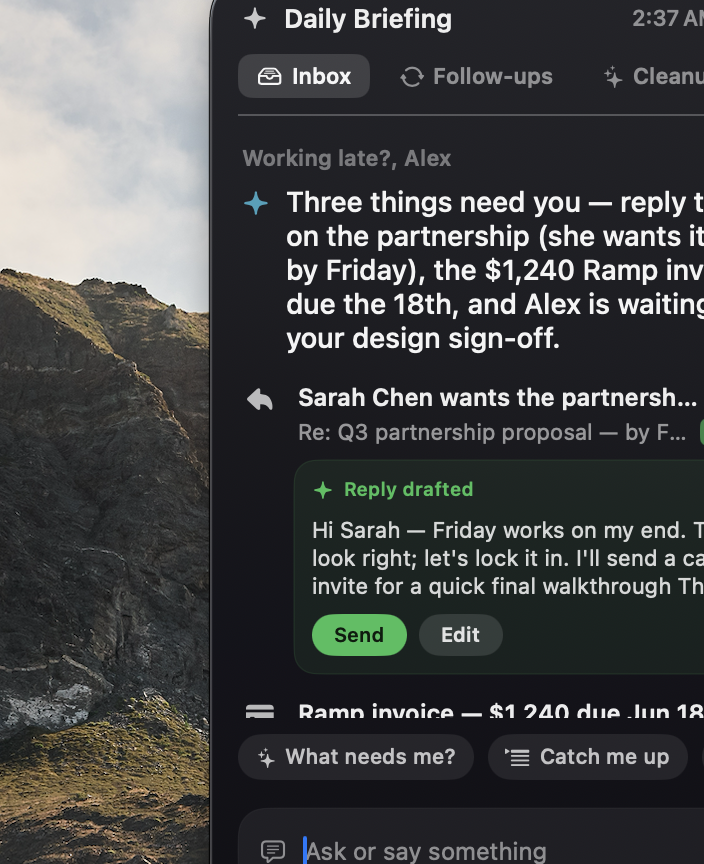
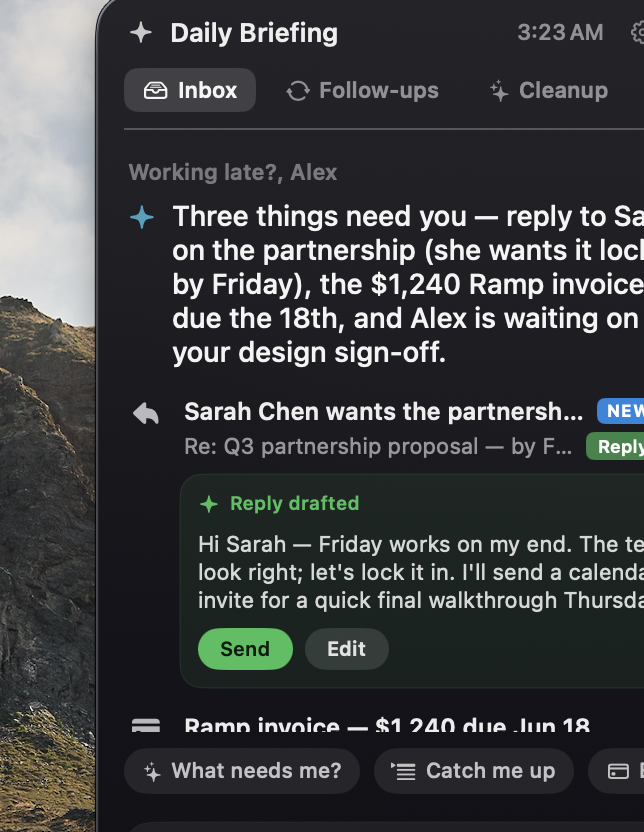
Polish README: tighter screenshots, fix flight GIF, add account connectivity, cleaner punctuation

diff --git a/README.md b/README.md
@@ -4,7 +4,7 @@
 
 # Crux
 
-### Your inbox, distilled to what actually matters — privately, on your Mac.
+### Your inbox, distilled to what actually matters - privately, on your Mac.
 
 Crux is a free, open-source menu-bar assistant that reads your mail **100% on-device**, tells you the few things that genuinely need you, drafts your replies, and quiets the rest. No account. No cloud. No telemetry. Your email never leaves your Mac.
 
@@ -14,7 +14,7 @@ Crux is a free, open-source menu-bar assistant that reads your mail **100% on-de
 ![Network](https://img.shields.io/badge/telemetry-none-22c1c3)
 ![Built with](https://img.shields.io/badge/Swift-SwiftUI%20%2B%20Foundation%20Models-orange)
 
-<img src="docs/screenshots/hero.png" width="640" alt="Crux briefing" />
+<img src="docs/screenshots/hero.png" width="380" alt="Crux briefing" />
 
 </div>
 
@@ -22,7 +22,7 @@ Crux is a free, open-source menu-bar assistant that reads your mail **100% on-de
 
 ## Why Crux
 
-Your inbox is 95% noise — newsletters, job alerts, receipts, "someone mentioned you" — and 5% that actually needs you. Every other email tool fixes this by **uploading your mail to their servers** and running it through their AI.
+Your inbox is 95% noise - newsletters, job alerts, receipts, "someone mentioned you" - and 5% that actually needs you. Every other email tool fixes this by **uploading your mail to their servers** and running it through their AI.
 
 Crux does the opposite. It runs Apple's on-device foundation model **right on your Mac**. The same intelligence, but your mail is never sent anywhere, never stored on a server, never used to train anything. It's the privacy you'd want from something reading your email.
 
@@ -30,76 +30,93 @@ Crux does the opposite. It runs Apple's on-device foundation model **right on yo
 
 ---
 
+## Works with your accounts
+
+Crux needs **no passwords and no API keys**. It reads whatever you've already added to **Apple Mail**, so it works with every major provider:
+
+> **Gmail (Google), iCloud, Outlook / Microsoft 365, Yahoo, and any IMAP account.**
+
+The trick: your provider syncs into Apple Mail, and Crux reads that **local, on-device copy**. It never logs into Google or Microsoft, and your password stays with Apple.
+
+It also reads, on-device:
+
+- **Apple Calendar** (including a **Google Calendar** synced into it) to show what's next and link meetings to the related mail.
+- **Apple Reminders** (including **Google Tasks** synced in) to show what's on your plate.
+
+Adding a new account is just adding it to Apple Mail. Everything stays on your Mac.
+
+---
+
 ## What it does
 
 | | Feature | What you get |
 |---|---|---|
-| 📩 | **Daily briefing** | The handful of emails that genuinely need you — surfaced from the noise by a deterministic importance engine (Apple's own urgent/high-impact ML verdicts + unread/flagged − newsletter/bot penalties). |
+| 📩 | **Daily briefing** | The handful of emails that genuinely need you - surfaced from the noise by a deterministic importance engine (Apple's own urgent/high-impact ML verdicts + unread/flagged - newsletter/bot penalties). |
 | ✍️ | **Smart Reply** | Crux pre-drafts a reply for the top message that needs one, in *your* voice. You just Send or Edit. Never drafts to no-reply/bot senders. |
 | 🔁 | **Follow-up Radar** | Threads where *you're* waiting on a reply, so nothing slips. |
-| 📚 | **Catch me up** | A grouped digest of everything recent (jobs, social, newsletters) — readable instead of a flat list. |
+| 📚 | **Catch me up** | A grouped digest of everything recent (jobs, social, newsletters) - readable instead of a flat list. |
 | 🧹 | **Declutter & Unsubscribe** | Finds the senders flooding your inbox and one-taps the real `List-Unsubscribe`. |
-| 💸 | **Money Radar** | Detects subscriptions & free-trials-about-to-charge from renewal emails — **no bank login, ever**. Free and complete. |
-| ✨ | **Discover ("Worth a look")** | Pulls the genuinely interesting items out of the newsletters *you already get*, matched to your field — so you don't miss the good stuff. |
-| 🎙️ | **Ask Crux** | A chat box (type or speak) to ask anything about your inbox — answered on-device, in plain language. |
+| 💸 | **Money Radar** | Detects subscriptions & free-trials-about-to-charge from renewal emails - **no bank login, ever**. Free and complete. |
+| ✨ | **Discover ("Worth a look")** | Pulls the genuinely interesting items out of the newsletters *you already get*, matched to your field - so you don't miss the good stuff. |
+| 🎙️ | **Ask Crux** | A chat box (type or speak) to ask anything about your inbox - answered on-device, in plain language. |
 | 🛎️ | **Live notification card** | A clean Dynamic-Island-style card drops in for important new mail, then a dot glides up to the menu bar. (Toggle the animation off if you prefer.) |
-| 🧠 | **Learns you** | Builds a private, on-device model of what you care about from what you open and star — and from the interests you set. |
+| 🧠 | **Learns you** | Builds a private, on-device model of what you care about from what you open and star - and from the interests you set. |
 | 📅 | **Calendar + Reminders aware** | Shows what's next and what's on your plate, alongside your mail. |
 
 ### See it
 
 <div align="center">
 
-**The fly-to-Crux handoff** — when important mail arrives, a card drops under the notch and a dot glides up to the menu bar:
+**The fly-to-Crux handoff** - when important mail arrives, a card drops under the notch and a dot glides up to the menu bar:
 
-<img src="docs/screenshots/flight.gif" width="540" alt="Crux notification animation" />
+<img src="docs/screenshots/flight.gif" width="460" alt="Crux notification animation" />
 
 </div>
 
 | Money Radar | Ask Crux |
 |:-:|:-:|
-| <img src="docs/screenshots/money.png" width="320" alt="Money Radar — subscriptions & trial alerts" /> | <img src="docs/screenshots/chat.png" width="320" alt="Ask Crux — chat with your inbox" /> |
-| Every subscription + trials about to charge — **no bank login** | Chat with your inbox by **text or voice**, answered on-device |
+| <img src="docs/screenshots/money.png" width="320" alt="Money Radar - subscriptions & trial alerts" /> | <img src="docs/screenshots/chat.png" width="320" alt="Ask Crux - chat with your inbox" /> |
+| Every subscription + trials about to charge - **no bank login** | Chat with your inbox by **text or voice**, answered on-device |
 
 ---
 
-## 🔒 Privacy — the whole point
+## 🔒 Privacy - the whole point
 
 - **On-device AI.** Summaries, drafts, and answers run on Apple's Foundation Models, locally. Your mail is never uploaded.
 - **Zero accounts, zero telemetry.** Crux has no backend. It can't see your data because there's nowhere for it to go.
-- **The *only* network connection** Crux can make is an **optional, once-a-day, anonymous** check to GitHub to see if a new version exists — it sends nothing about you, and you can turn it off in Settings.
+- **The *only* network connection** Crux can make is an **optional, once-a-day, anonymous** check to GitHub to see if a new version exists - it sends nothing about you, and you can turn it off in Settings.
 - **Open source (MIT).** Read every line. Build it yourself.
 
 ---
 
 ## Requirements
 
-- **Apple Silicon Mac (M1 or newer)** — required for the on-device AI.
+- **Apple Silicon Mac (M1 or newer)** - required for the on-device AI.
 - **macOS 26 (Tahoe) or later.**
 - **Apple Intelligence enabled** (System Settings → Apple Intelligence & Siri).
-- Your mail added to **Apple Mail** (see [Setup](#setup) — this is how Crux reads Gmail/iCloud/Outlook without ever logging in).
+- Your mail added to **Apple Mail** (see [Setup](#setup) - this is how Crux reads Gmail/iCloud/Outlook without ever logging in).
 
-> Crux still shows your inbox, Money Radar, and Discover on machines without Apple Intelligence — it just skips the AI phrasing.
+> Crux still shows your inbox, Money Radar, and Discover on machines without Apple Intelligence - it just skips the AI phrasing.
 
 ---
 
 ## Install
 
-### Option A — Download (easiest)
+### Option A - Download (easiest)
 
 1. Download **`Crux.zip`** from the [latest release](https://github.com/Tharuntejandhe/Crux/releases/latest).
 2. Unzip and move **Crux.app** to `/Applications`.
 3. **First launch only:** right-click `Crux.app` → **Open** → **Open**.
-   *(Crux is open-source and not notarized — we don't pay for an Apple Developer ID — so macOS asks once. You can verify exactly why in the source.)*
+   *(Crux is open-source and not notarized - we don't pay for an Apple Developer ID - so macOS asks once. You can verify exactly why in the source.)*
    <br>Alternatively: `xattr -dr com.apple.quarantine /Applications/Crux.app`
 
-### Option B — Homebrew
+### Option B - Homebrew
 
 ```bash
 brew install --cask Tharuntejandhe/crux/crux
 ```
 
-### Option C — Build from source (no Gatekeeper prompt at all)
+### Option C - Build from source (no Gatekeeper prompt at all)
 
 ```bash
 git clone https://github.com/Tharuntejandhe/Crux.git
@@ -133,7 +150,7 @@ Crux reads Mail's local database, which macOS protects:
 
 ### 3. First-run onboarding
 
-Tell Crux your name and your field/interests (e.g. *"robotics, startups"*) so Discover and ranking work from day one. Done — click the ✦ in your menu bar anytime.
+Tell Crux your name and your field/interests (e.g. *"robotics, startups"*) so Discover and ranking work from day one. Done - click the ✦ in your menu bar anytime.
 
 ---
 
@@ -141,10 +158,10 @@ Tell Crux your name and your field/interests (e.g. *"robotics, startups"*) so Di
 
 Crux lives in your menu bar (the **✦**). The number next to it is the live count of things that actually need you.
 
-- **Glance at the briefing.** Click ✦ — the top speaks like an assistant (*"Three things need you — reply to Sarah…"*), then lists what matters. When nothing does, it says so (no fake busywork).
-- **Reply in two taps.** For mail that needs a reply, Crux has **already drafted one** in your voice — hit **Send**, or **Edit** to re-tone it (Shorter / Warmer / Formal). It never drafts to bots/no-reply senders.
-- **Catch up after time away.** Tap **Catch me up** for a grouped digest — or just open your laptop: Crux greets you with what you missed (and stays silent if nothing did).
-- **Ask anything.** Type or 🎙️ **speak** in the ask bar: *"what needs me?"*, *"when's the invoice due?"*, *"did the bank email?"* — answered on-device.
+- **Glance at the briefing.** Click ✦ - the top speaks like an assistant (*"Three things need you - reply to Sarah…"*), then lists what matters. When nothing does, it says so (no fake busywork).
+- **Reply in two taps.** For mail that needs a reply, Crux has **already drafted one** in your voice - hit **Send**, or **Edit** to re-tone it (Shorter / Warmer / Formal). It never drafts to bots/no-reply senders.
+- **Catch up after time away.** Tap **Catch me up** for a grouped digest - or just open your laptop: Crux greets you with what you missed (and stays silent if nothing did).
+- **Ask anything.** Type or 🎙️ **speak** in the ask bar: *"what needs me?"*, *"when's the invoice due?"*, *"did the bank email?"* - answered on-device.
 - **Kill the noise.** **Cleanup** one-taps real unsubscribes; **Money** flags subscriptions and free-trials about to charge, with a Cancel link.
 - **Worth a look.** Crux surfaces the genuinely interesting reads buried in your newsletters, matched to your interests.
 - **Notifications, your way.** Important new mail drops a card under the notch **within seconds** (panel open or not) and a dot flies to ✦. Prefer it calm? **Settings → Notification animation → Off.**
@@ -155,8 +172,8 @@ Crux lives in your menu bar (the **✦**). The number next to it is the live cou
 |---|---|
 | **Your name & interests** | Personalizes the greeting and powers "Worth a look." |
 | **Notification animation** | Turn the flying-dot handoff on/off. |
-| **Check for updates** | The *only* network touch — anonymous, once a day. On/off. |
-| **Make Crux's voice human** | Appears if your Mac has no natural voice — one tap to download a free Premium one. |
+| **Check for updates** | The *only* network touch - anonymous, once a day. On/off. |
+| **Make Crux's voice human** | Appears if your Mac has no natural voice - one tap to download a free Premium one. |
 | **VIP senders** | Always top of the briefing, always notify. |
 | **Morning digest** | One "here's what needs you" notification a day. |
 | **Send feedback** | Opens your mail client, prefilled. |
@@ -175,10 +192,10 @@ Apple Mail (local SQLite Envelope Index + .emlx bodies)
   Apple Foundation Models (on-device)  ──►  phrasing only: summaries, drafts, answers
         │
         ▼
-  Menu-bar panel · notification card · voice Q&A
+  Menu-bar panel  |  notification card  |  voice Q&A
 ```
 
-No servers. No network round-trips for any of your data. Prompts sent to the local model are sanitized against injection (a malicious newsletter can't hijack it) — and that's covered by tests.
+No servers. No network round-trips for any of your data. Prompts sent to the local model are sanitized against injection (a malicious newsletter can't hijack it) - and that's covered by tests.
 
 ---
 
@@ -188,19 +205,19 @@ No servers. No network round-trips for any of your data. Prompts sent to the loc
 No. There is no backend. The only possible network call is the optional update check (anonymous, toggleable).
 
 **Is the unsigned download safe?**
-It's open-source — you can read and build it yourself. We skip notarization only because it requires a paid Apple Developer ID. The one-time right-click-Open is macOS being cautious about *any* non-notarized app, not a sign of malware.
+It's open-source - you can read and build it yourself. We skip notarization only because it requires a paid Apple Developer ID. The one-time right-click-Open is macOS being cautious about *any* non-notarized app, not a sign of malware.
 
 **Why Full Disk Access?**
 Apple sandboxes Mail's local store. FDA is the only way to read it on-device. Crux is read-only and never copies your mail off the machine.
 
 **Does it work with Gmail / Outlook / iCloud?**
-Yes — anything you add to Apple Mail. Crux reads the local copy, so the provider doesn't matter.
+Yes - anything you add to Apple Mail. Crux reads the local copy, so the provider doesn't matter.
 
 **Why is it always dark?**
 It's a menu-bar HUD (like Spotlight / the Dynamic Island), which reads best dark regardless of system theme.
 
 **Does it run on Intel Macs?**
-macOS 26 may install, but the on-device AI needs Apple Silicon — so the AI features won't be available.
+macOS 26 may install, but the on-device AI needs Apple Silicon - so the AI features won't be available.
 
 ---
 
@@ -228,7 +245,7 @@ Settings → **Send feedback** (opens your mail client), or open a [GitHub issue
 
 ## License
 
-[MIT](LICENSE) — free for any use. Your mail is yours; so is this code.
+[MIT](LICENSE) - free for any use. Your mail is yours; so is this code.
 
 ---
 